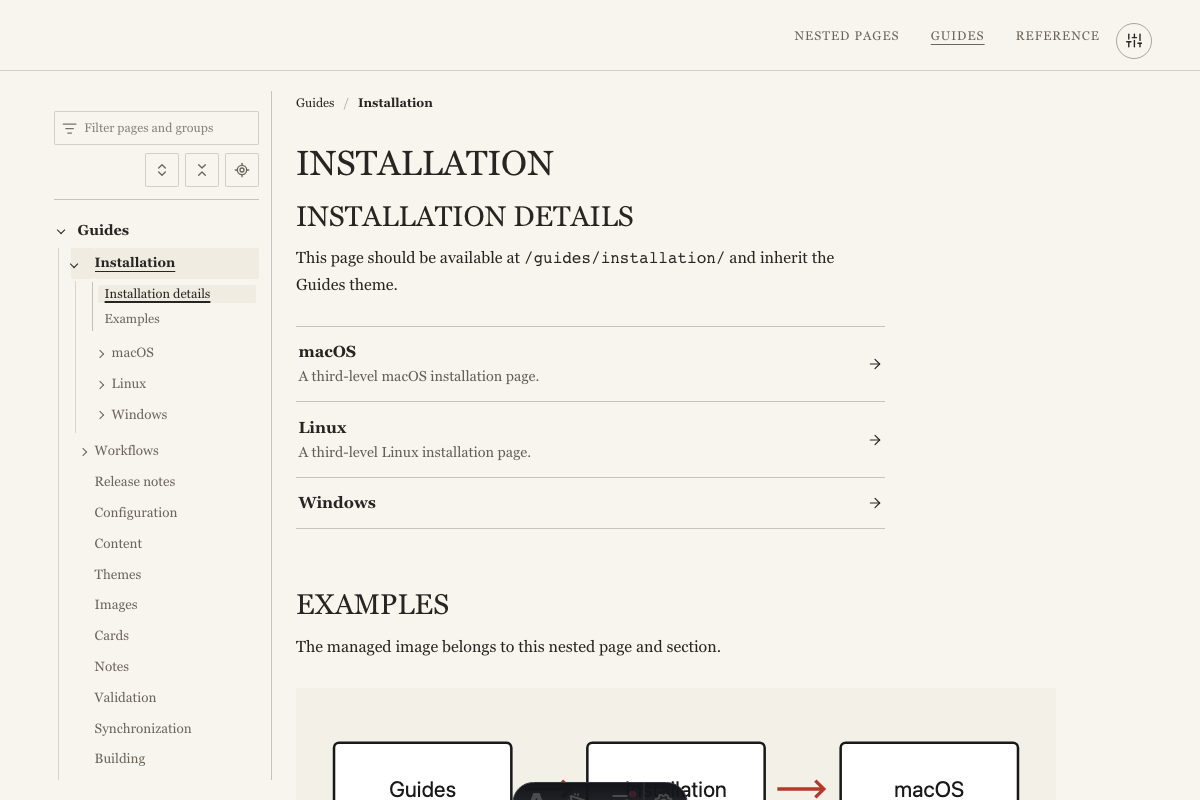
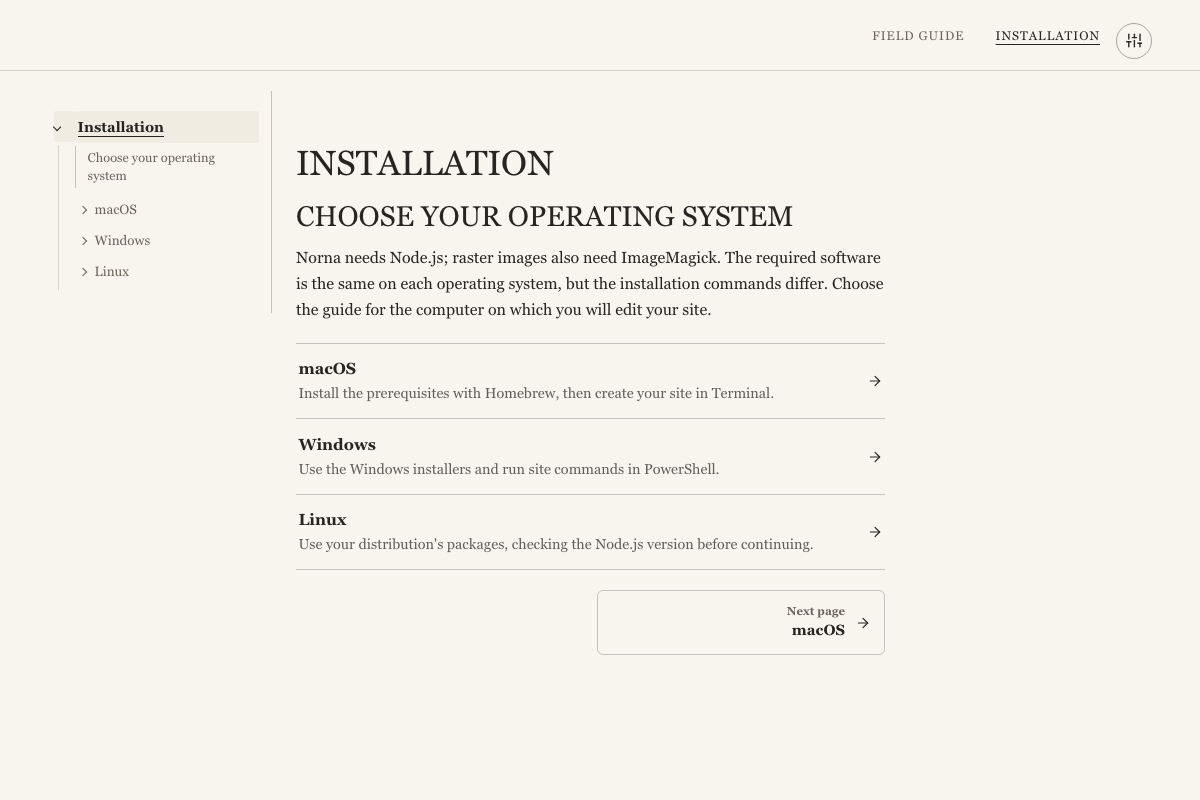
docs(examples): show meaningful child-page choices (BL-088)

diff --git a/site/pages/030-examples/content.md b/site/pages/030-examples/content.md
@@ -280,27 +280,59 @@ and scroll its rows to see the column headings remain in context. Read the
 <!-- norna-image-provenance:
 image: child-page-list.png
 source: local-browser-capture
-Captured from fixtures/nested-pages/site at /guides/installation/ using the
-registered navigation review environment at 1200 by 800 pixels.
+Captured from fixtures/child-page-list/site at /installation/ using the
+registered scratch review environment at 1200 by 800 pixels. Reproduction
+commands are in fixtures/child-page-list/README.md.
 -->
 
 ```image-stack
 - image: child-page-list.png
-  alt: A Norna Installation page with macOS, Linux, and Windows listed as linked child pages below its introduction.
-  caption: The parent page renders its direct children from the same page graph used by navigation.
+  alt: Installation guides for macOS, Windows, and Linux, with descriptions explaining their different prerequisites and tools.
+  caption: Descriptions help readers choose a guide; the navigation tree only names the destinations.
 ```
 
-Adding, moving, or removing a direct child updates the rendered list without
-maintaining those links separately in Markdown.
+The parent explains the choice. The empty block collects the direct child
+pages in directory order; their H1s and descriptions supply the list text.
 
-````md
+````md title="pages/010-installation/content.md"
+# Installation
+
+## Choose your operating system
+
+Norna needs Node.js; raster images also need ImageMagick. The required software
+is the same on each operating system, but the installation commands differ.
+Choose the guide for the computer on which you will edit your site.
+
 ```page-list
 ```
 ````
 
-**Source:** Norna Markdown extension with no options. It is useful on a real
-parent page whose introduction adds value; a navigation-only category should
-not create a duplicate page merely to show the list. Read the
+```text
+010-installation/
+|-- content.md
+`-- pages/
+    |-- 010-macos/content.md
+    |-- 020-windows/content.md
+    `-- 030-linux/content.md
+```
+
+```md title="pages/010-installation/pages/010-macos/content.md (opening)"
+---
+page:
+  description: Install the prerequisites with Homebrew, then create your site in Terminal.
+---
+
+# macOS
+```
+
+The other descriptions are "Use the Windows installers and run site commands
+in PowerShell" and "Use your distribution's packages, checking the Node.js
+version before continuing." Adding, moving, or removing a child updates the
+list; descriptions stay with their pages.
+
+**Source:** Norna Markdown extension with no options. Use a list when its
+context helps readers choose. If it only repeats navigation, use a category
+instead of creating a parent page. Read the
 [child-page-list reference](https://github.com/janga/norna/blob/main/docs/content.md#child-page-list).
 
 ## Automatic responsive navigation {#automatic-navigation}

diff --git a/fixtures/child-page-list/README.md b/fixtures/child-page-list/README.md
@@ -1,0 +1,18 @@
+# Child-Page List Example
+
+This maintained source supplies the screenshot in the public Examples page.
+The parent explains a choice; child descriptions distinguish the prerequisites
+and working environment. This is an illustrative excerpt, not a replacement
+for the installation reference.
+
+Capture from the registered scratch environment:
+
+```sh
+npm run review:scratch -- prepare --from fixtures/child-page-list/site --replace
+npm run review:start -- scratch
+npm run review:capture -- scratch installation/ --viewport 1200x800
+```
+
+The image is `.local/review-captures/scratch/installation-1200x800-light.png`.
+Copy it to `site/pages/030-examples/images/child-page-list.png` after checking
+that headings, descriptions, and order agree with the source.

diff --git a/docs/design/backlog/BL-088-useful-child-page-list-example.md b/docs/design/backlog/BL-088-useful-child-page-list-example.md
@@ -2,9 +2,11 @@
 
 ## Status
 
-Ready; fifth in the correction sequence for
-[BL-083: Result-first single-page examples](BL-083-result-first-single-page-examples.md).
-This is an example correction using existing `page-list` behavior.
+Implemented using the maintained `fixtures/child-page-list/site` source.
+The real capture compares macOS, Windows, and Linux prerequisites; parent
+source, directory order, child metadata, and the reference link accompany it.
+Both fixture and documentation content checks passed. The desktop capture
+was inspected; final human gallery review remains pending.
 
 ## Problem
 

diff --git a/BACKLOG.md b/BACKLOG.md
@@ -22,9 +22,6 @@ whose first implementation needs changes after human review. Close that item
 only after
 [`BL-091` Final examples audit against implemented behavior](docs/design/backlog/BL-091-final-examples-implementation-audit.md).
 
-- [`BL-088` Child-page lists that help readers choose](docs/design/backlog/BL-088-useful-child-page-list-example.md):
-  **Ready.** Demonstrate child-page descriptions that help readers choose a
-  destination instead of repeating the navigation tree.
 
 ## Next
 

diff --git a/fixtures/child-page-list/site/pages/010-installation/pages/030-linux/content.md b/fixtures/child-page-list/site/pages/010-installation/pages/030-linux/content.md
@@ -1,0 +1,16 @@
+---
+page:
+  description: Use your distribution's packages, checking the Node.js version before continuing.
+---
+
+# Linux
+
+## Before you start
+
+Install Node.js 22.12 or later and ImageMagick using the installation method
+supported by your distribution. Some distribution repositories contain older
+Node.js versions; check the installed version before creating your site.
+
+```sh
+node --version
+```

diff --git a/fixtures/child-page-list/site/pages/010-installation/pages/020-windows/content.md b/fixtures/child-page-list/site/pages/010-installation/pages/020-windows/content.md
@@ -1,0 +1,12 @@
+---
+page:
+  description: Use the Windows installers and run site commands in PowerShell.
+---
+
+# Windows
+
+## Before you start
+
+Install Node.js 22.12 or later. If your site uses raster images, install
+ImageMagick and enable its option to add the application to your system path.
+Open a new PowerShell window after installation.

diff --git a/fixtures/child-page-list/site/pages/010-installation/content.md b/fixtures/child-page-list/site/pages/010-installation/content.md
@@ -1,0 +1,10 @@
+# Installation
+
+## Choose your operating system
+
+Norna needs Node.js; raster images also need ImageMagick. The required software
+is the same on each operating system, but the installation commands differ.
+Choose the guide for the computer on which you will edit your site.
+
+```page-list
+```

diff --git a/fixtures/child-page-list/site/pages/010-installation/pages/010-macos/content.md b/fixtures/child-page-list/site/pages/010-installation/pages/010-macos/content.md
@@ -1,0 +1,15 @@
+---
+page:
+  description: Install the prerequisites with Homebrew, then create your site in Terminal.
+---
+
+# macOS
+
+## Before you start
+
+Install Node.js 22.12 or later. Use Homebrew to install ImageMagick if your site
+uses raster images.
+
+```sh
+brew install imagemagick
+```

diff --git a/fixtures/child-page-list/site/pages/000-home/content.md b/fixtures/child-page-list/site/pages/000-home/content.md
@@ -1,0 +1,3 @@
+# Field guide
+
+A collection of practical guides for working with Norna.
